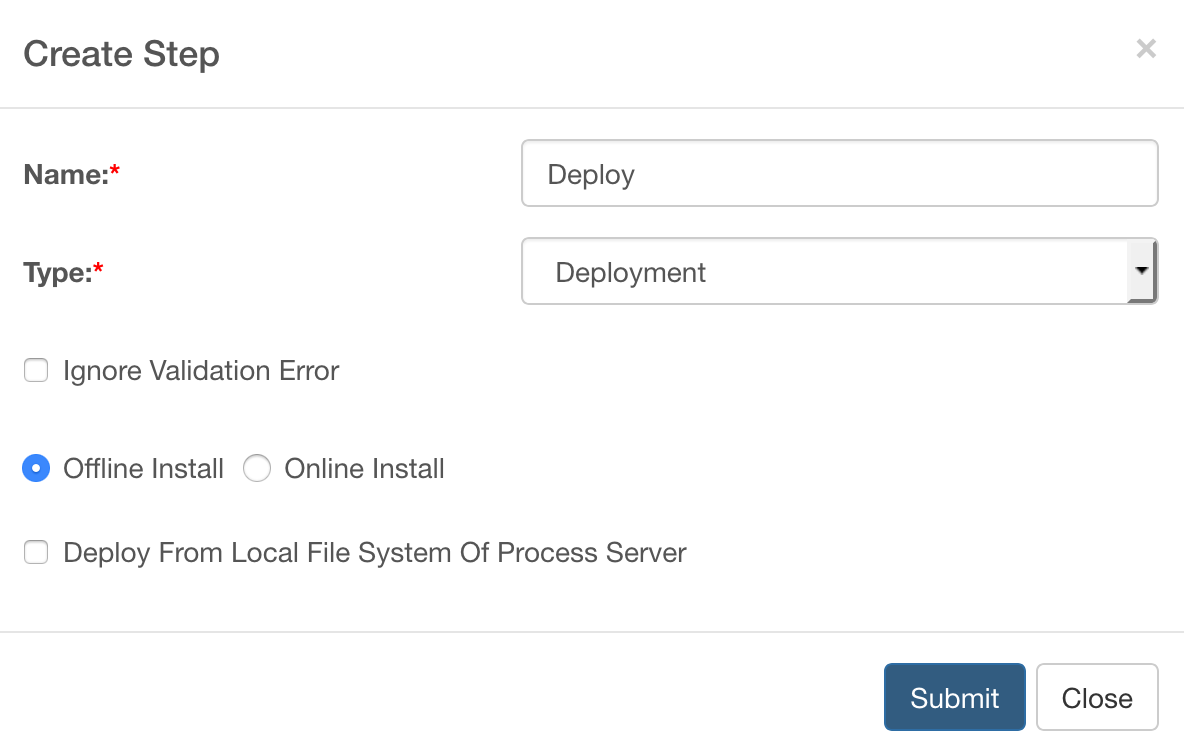
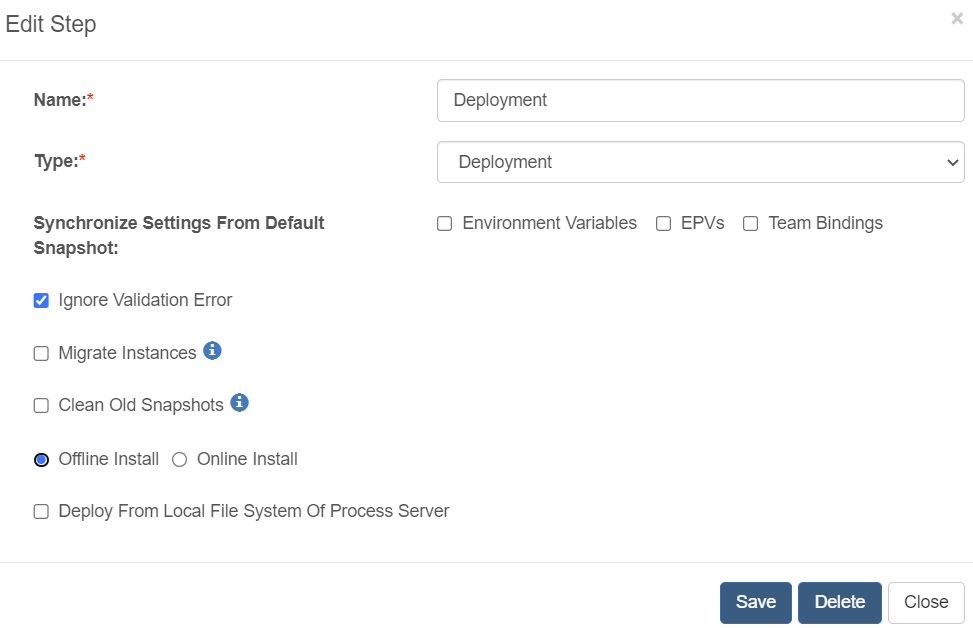
fix review issues

diff --git a/_posts/2018-08-15-pipeline-pipeline-stage&step-reference.md b/_posts/2018-08-15-pipeline-pipeline-stage&step-reference.md
@@ -1,7 +1,7 @@
 ---
 title: "Pipeline Stage & Step Reference"
 category: pipeline
-date: 2018-08-11 15:17:55
+date: 2018-08-15 15:17:55
 last_modified_at: 2019-07-29 15:55:00
 ---
 
@@ -26,7 +26,8 @@ Pipeline stage is like a milestone which contains one or more pipeline steps. Ea
   | Snapshot             |   **Naming Pattern**: the naming pattern for the created snapshot. | The Snapshot step is used to create a snpshot by specified naming pattern. This step is only available in Workflow DEV environment.|
   | Checkstyle             |   **Health Score Threshold**: the threshold to define the health score. If **Halt On Failure** is checked and the health score exceeds the threshold, the checkstyle step is considered to be failed and the pipeline is stopped. <br>**Warnings Threshold**: the threshold for the number of warnings. If **Halt On Failure** is checked and the number of warnings exceeds the threshold, the checkstyle step is considered to be failed and the pipeline is stopped.<br>**Ignore Empty Documentation**: indicate whether to ignore empty documentation.<br>**Ignore JS Coding Style Check**: indicate whether to ignore JS coding style check.<br>**Halt On Failure**: indicate whether to stop the pipeline if the checkstyle result exceeds the threshold.<br>**Tip**: indicate whether to run the checkstyle against TIP snapshot. | The Checkstyle step is used to run the checkstyle against a processApp.|
   | Test                  |  **Project**: the test project to run. <br>**Tip**: indicate whether to run the test against TIP snapshot. <br>**Include by labels**: indicate whether to include test cases by their labels. Once selected, all the test cases in the test project will be listed. User can select multiple labels in the select box shown below. Test cases must have **all** of the selected labels in order to be included in the test execution.<br>**Exclude test cases**: indicate whether to exclude test cases. Once selected, all the test cases in the test project will be listed. User can select one or more test cases that will be excluded from the test execution. |The Test step is used to run the testing project.|     
-  | Deployment             |  **Ignore Validation Error**: indicate whether to ignore validation errors during deployment.<br>**Offline Install** : indicates it is an offline deployment. <br>**Online Install** : indicates it is an online deployment.|  The Deployment step is used to deploy the processApp snapshot to process server, either through onine or offline deployment. The step is only available in Workflow non-DEV environment(QA, STG, PROD). |
+  | Deployment             |  **Synchronize Settings From Default Snapshot**: select Environment Variables, EPVs and Team Bindings to synchronize to the snapshot from the current default snapshot on process server.<br>**Ignore Validation Error**: indicate whether to ignore validation errors during deployment.<br>**Migrate Instances**: Migrate process application instances from the default snapshot. The migration will be performed according to the default migration policy.<br>**Clean Old Snapshots**: Clean the old snapshots without any running instances or completed tasks referenced by running instances, and the completed instances in the snapshots will be deleted as well.<br>**Offline Install** : indicates it is an offline deployment. <br>**Deploy From Local File System Of Process Server**: check when installation package on process server dir configures on [BAW Deployment Remote Dir].<br>**Online Install** : indicates it is an online deployment.|  The Deployment step is used to deploy the processApp snapshot to process server, either through onine or offline deployment. The step is only available in Workflow non-DEV environment(QA, STG, PROD). |
   | Script                   | **Script**: the script content to execute  |   The Script step is used to run a script in IDA server. Refer to [this] for more details about pipeline Script samples.|   
 
 [this]: ../pipeline/pipeline-pipeline-script.html
+[BAW Deployment Remote Dir]: ../administration/administration-settings-configuration.html#pipeline-configuration

diff --git a/_posts/2018-08-05-pipeline-deploy-snapshot-from-pc-to-ps.md b/_posts/2018-08-05-pipeline-deploy-snapshot-from-pc-to-ps.md
@@ -92,7 +92,7 @@ IDA pipeline allows you to deploy your snapshot from PC to PS, either through on
 
 3. Run the pipeline, you will be prompted with a popup window to provide the snapshot acronym, which is a optional field. If the snapshot acronym is empty, the snapshot created in DEV (PC) stage will be installed to online PS. If the snapshot acronym is provided, it means the existing snapshot in DEV (PC) will be located by snapshot acronym and installed to online PS.
 
-   ![][pipeline_run_online_deploy]
+   ![][pipeline_run_online_deploy]{:width="60%"}
 
 4. After the pipeline is started, then you can check the pipeline build status. If sucessful, it means the snapshot is deployed from PC to online PS.
 

diff --git a/_posts/2018-10-17-administration-settings-configuration.md b/_posts/2018-10-17-administration-settings-configuration.md
@@ -77,7 +77,7 @@ Search Depth | Search (and comparison) depth of Coach/Coach View
 Field | Description
 --- | ---
 Interval for Trigger by New Snapshot(seconds): | Time interval in seconds for pipeline new snapshot trigger job to query BAW PC servers
-Installation Package Remote Dir | Installation Package Remote Dir
+BAW Deployment Remote Dir | Installation Package Remote Dir
 Deployment Timeout(seconds) | Timeout of check if snapshot is installed on PS and set as default snapshot
 Deployment Check Interval(seconds) | Interval of check if snapshot is installed on PS and set as default snapshot
 Host | SMTP host
